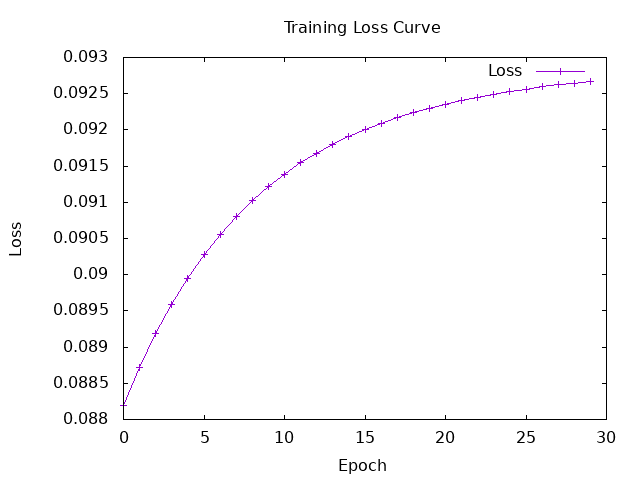
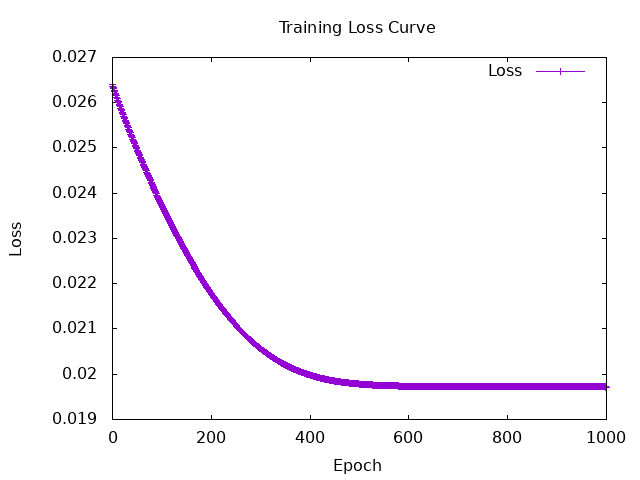
Graph is fixed but tensor seems to be enpty

diff --git a/src/Session5/README.md b/src/Session5/README.md
@@ -1,0 +1,5 @@
+# ochanomizu
+
+# Session 4 :
+
+## Admit.hs
